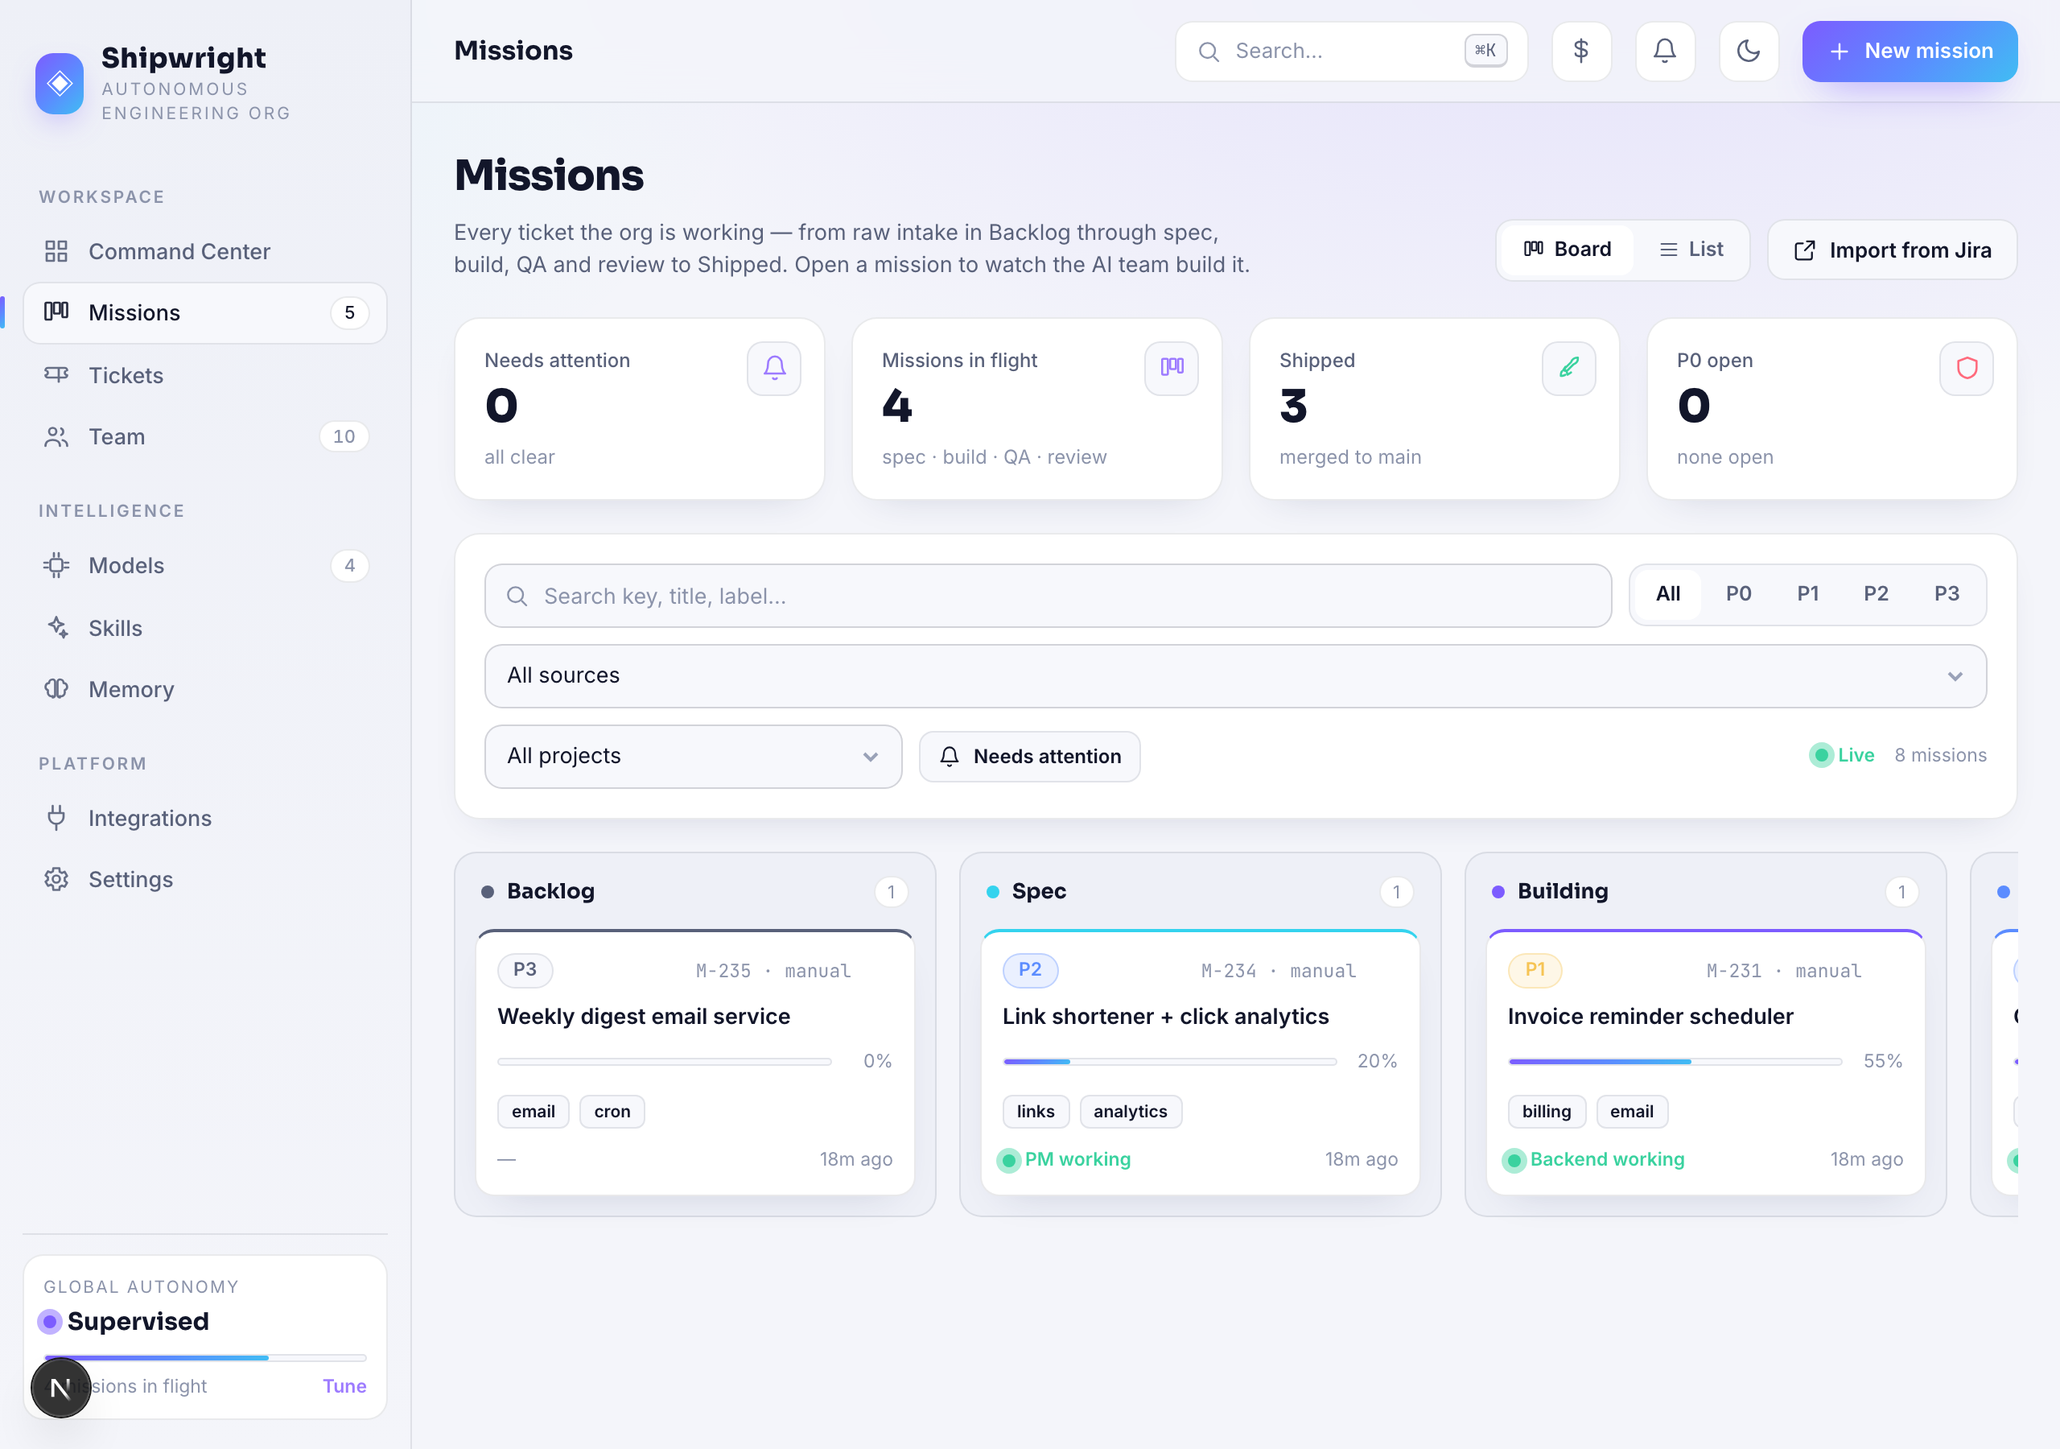
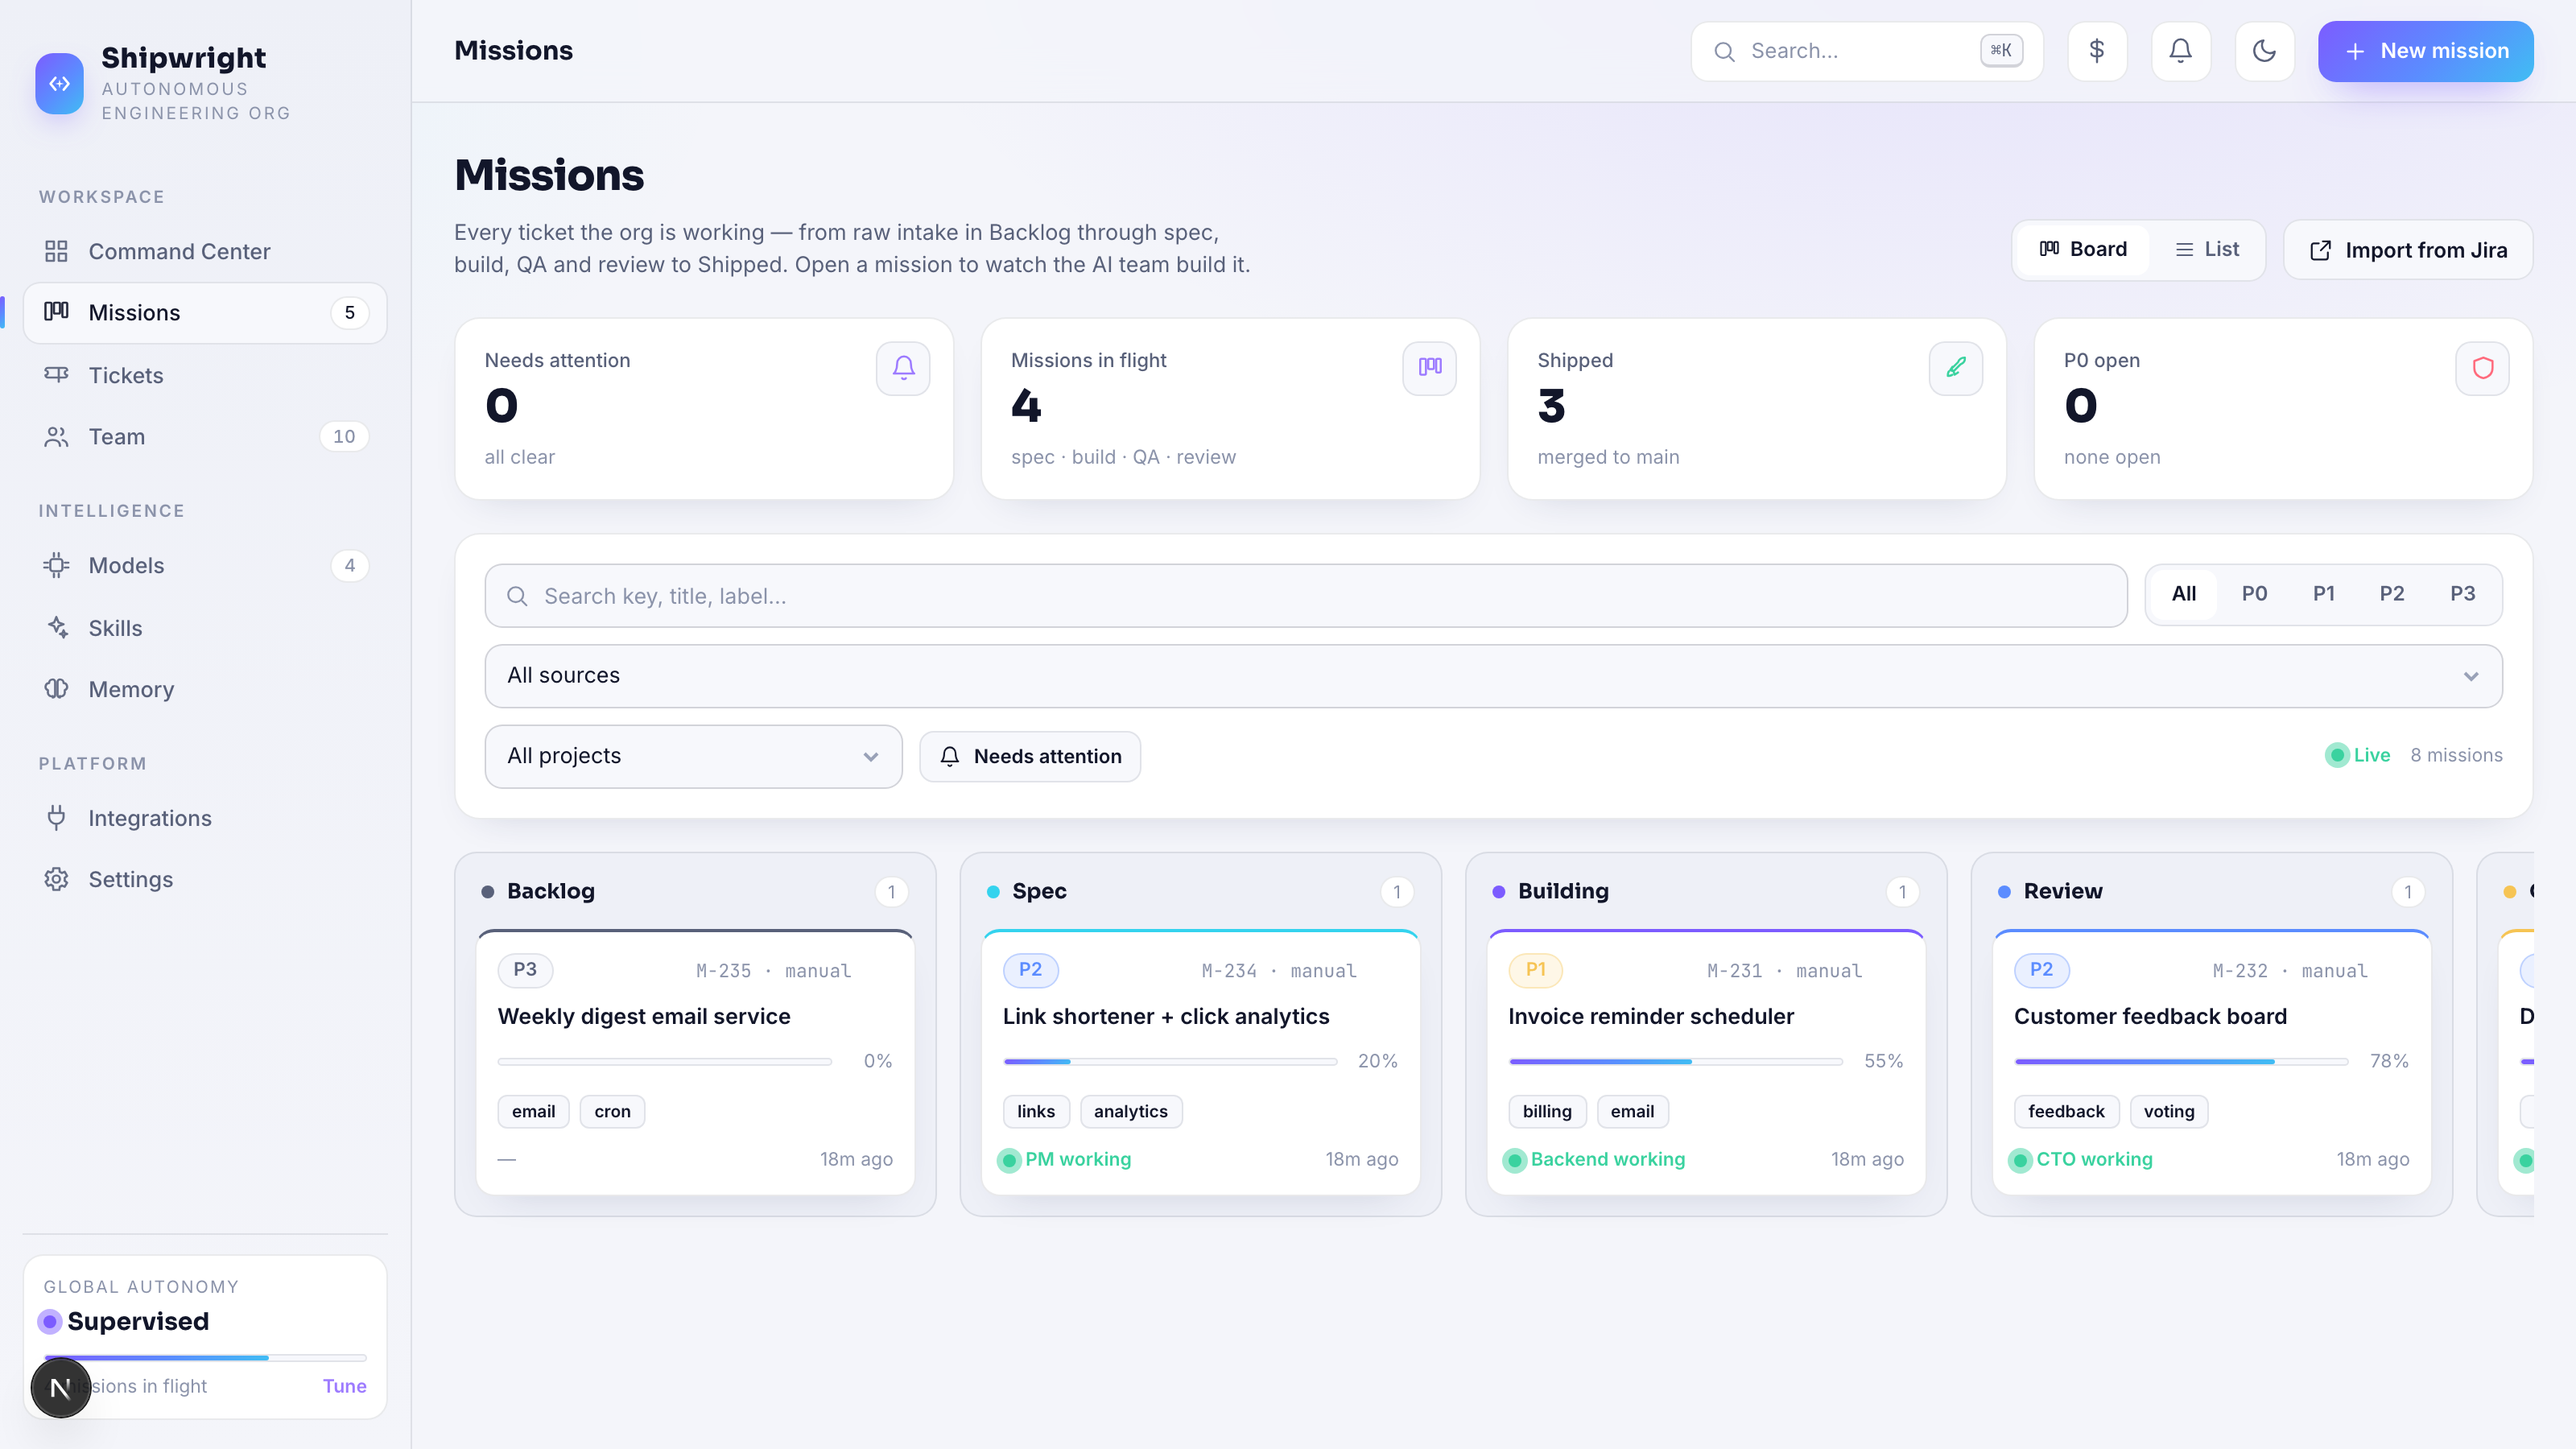
Recapture tour screenshots at 16:9 (no cutoff); tickets shows all 6 columns
- Tour stage set to 16:9 to match screenshots so nothing is cropped
- Tickets captured wide with the content max-width lifted → full board + sidebar,
  autonomy card pinned at the bottom

diff --git a/styles.css b/styles.css
@@ -187,8 +187,9 @@ section { padding: 60px 0; }
 .tl { display: flex; gap: 8px; }
 .tl span { width: 11px; height: 11px; border-radius: 50%; }
 .tour-url { max-width: 70%; overflow: hidden; text-overflow: ellipsis; white-space: nowrap; }
-.tour-stage { position: relative; width: 100%; aspect-ratio: 16 / 10; background: var(--panel-2); }
-.tour-stage img { position: absolute; inset: 0; width: 100%; height: 100%; object-fit: cover; object-position: top center; opacity: 0; transition: opacity .7s ease; }
+/* aspect matches the 1280×900 screenshots so nothing is cropped (contain = cover here) */
+.tour-stage { position: relative; width: 100%; aspect-ratio: 16 / 9; background: var(--panel-2); }
+.tour-stage img { position: absolute; inset: 0; width: 100%; height: 100%; object-fit: contain; opacity: 0; transition: opacity .7s ease; }
 .tour-stage img.on { opacity: 1; }
 .tour-cap { display: flex; align-items: center; gap: 10px; padding: 12px 16px; border-top: 1px solid var(--line); background: var(--panel-2); min-height: 54px; }
 .tour-cap .txt { color: var(--muted); font-size: 14px; line-height: 1.45; }
